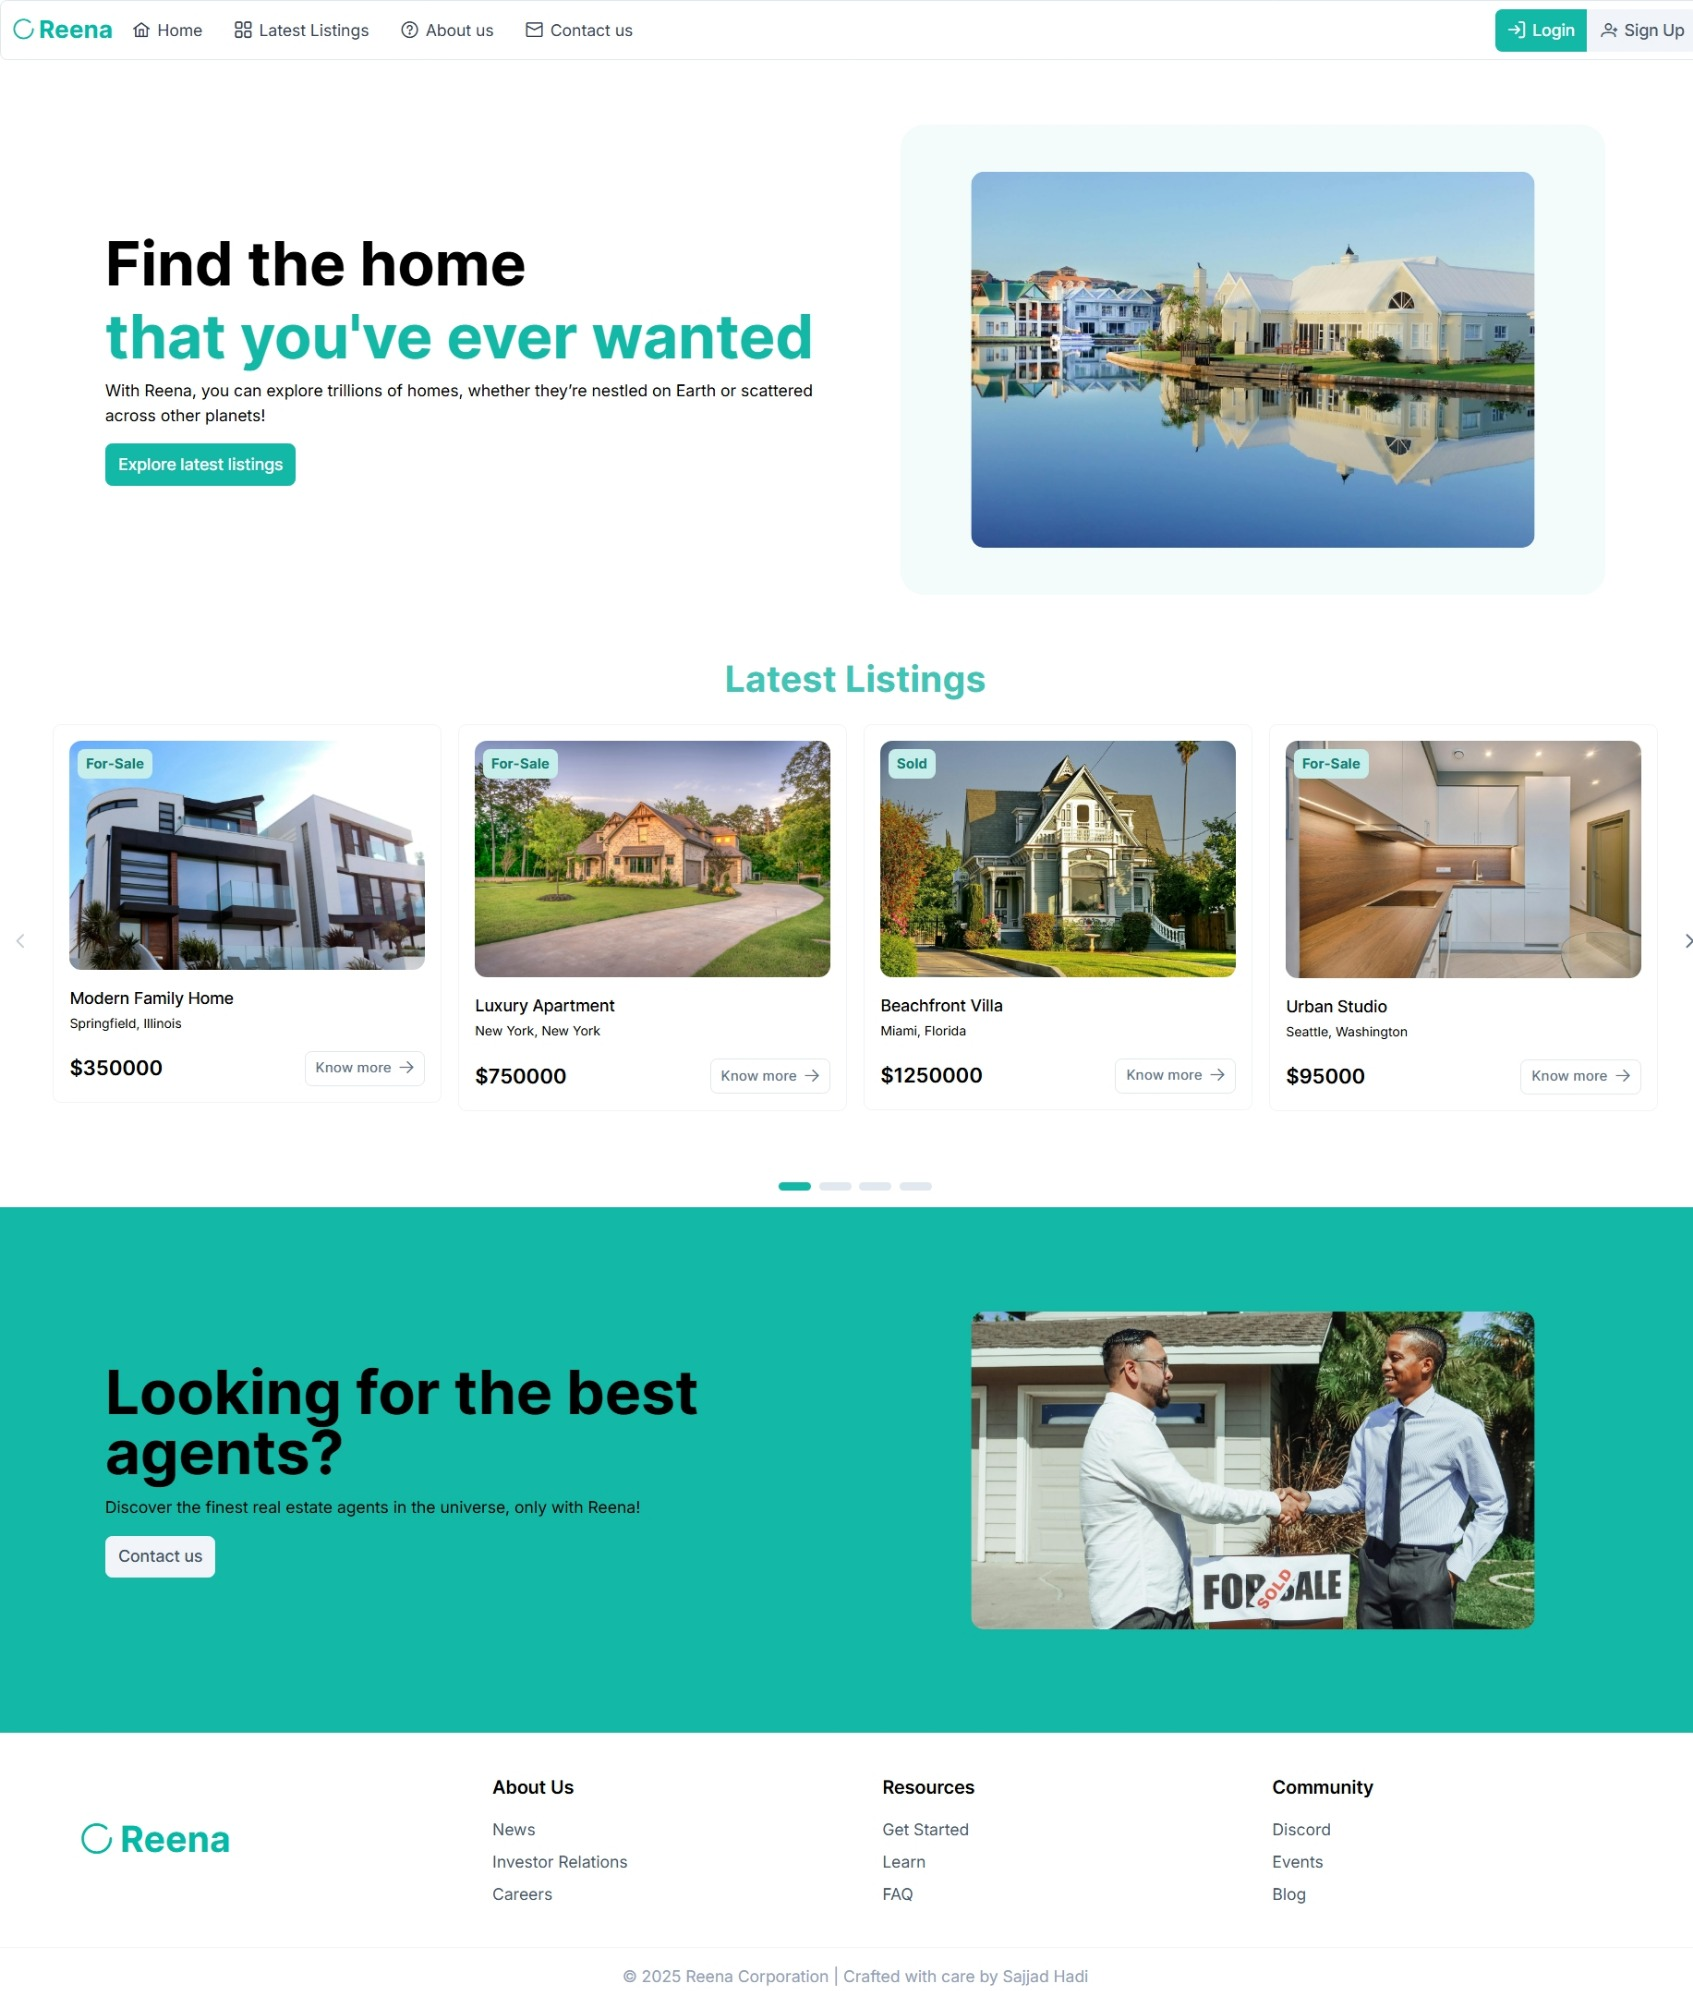
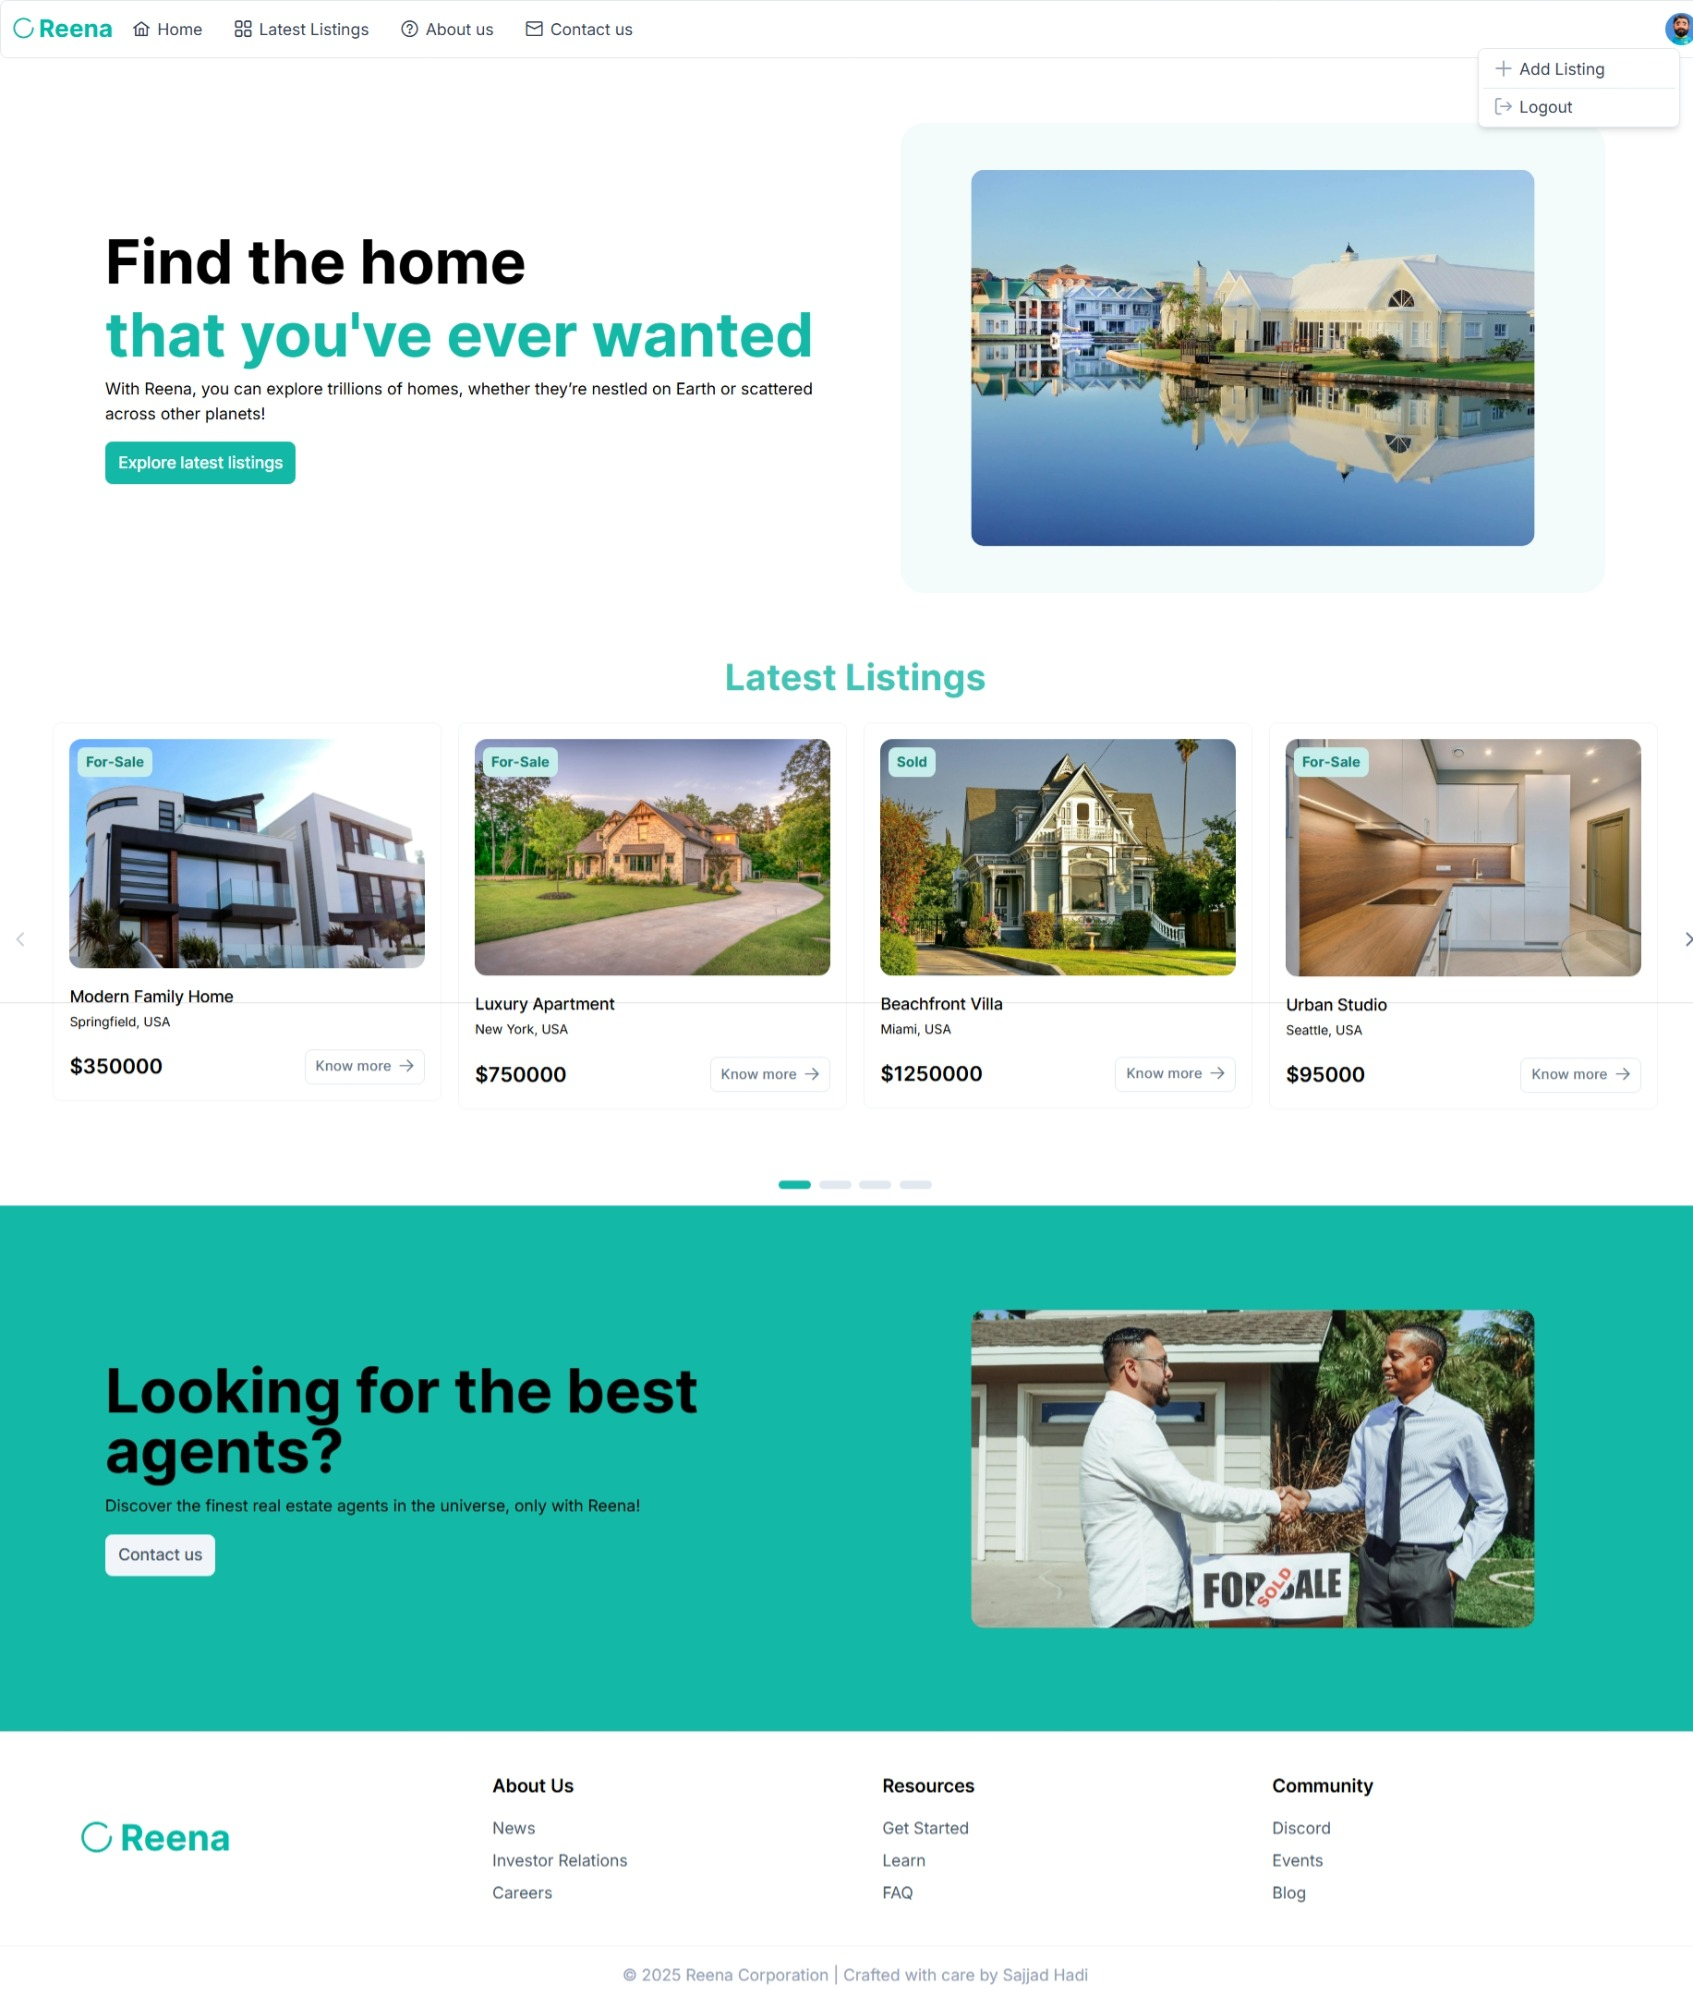
Improve user effect, service, and UI

diff --git a/src/app/store/user/user.effects.ts b/src/app/store/user/user.effects.ts
@@ -2,59 +2,119 @@ import { inject, Injectable } from '@angular/core';
 import { Actions, createEffect, ofType } from '@ngrx/effects';
 import { UserService } from '../../services/user.service';
 import { UserActions } from './user.actions';
-import { mergeMap } from 'rxjs';
+import { mergeMap, map, catchError, tap } from 'rxjs/operators';
+import { from, of } from 'rxjs';
+import { Router } from '@angular/router';
+import { MessageService } from 'primeng/api';
 import { User } from '../../interfaces/user';
 
 @Injectable()
 export class UserEffects {
   private actions$ = inject(Actions);
   private userService = inject(UserService);
+  private router = inject(Router);
+  private messageService = inject(MessageService);
 
+  // Get the current user
   getUser$ = createEffect(() =>
     this.actions$.pipe(
       ofType(UserActions.getUser),
       mergeMap(() =>
-        this.userService.getUser().then(
-          (user: User) => UserActions.getUserSuccess({ user }),
-          (error) => UserActions.getUserFailure({ error: error.message })
+        from(this.userService.getUser()).pipe(
+          map((user: User) => UserActions.getUserSuccess({ user })),
+          catchError((error) => of(UserActions.getUserFailure({ error: error.message })))
         )
       )
     )
   );
 
+  // Sign up a new user
   signUp$ = createEffect(() =>
     this.actions$.pipe(
       ofType(UserActions.signUp),
       mergeMap(({ user }) =>
-        this.userService.signup(user).then(
-          (user: User) => UserActions.signUpSuccess({ user }),
-          (error) => UserActions.signUpFailure({ error: error.message })
+        from(this.userService.signup(user)).pipe(
+          map((user: User) => UserActions.signUpSuccess({ user })),
+          catchError((error) => of(UserActions.signUpFailure({ error: error.message })))
         )
       )
     )
   );
 
+  // Create a session (login)
   createSession$ = createEffect(() =>
     this.actions$.pipe(
       ofType(UserActions.createSession),
       mergeMap(({ data }) =>
-        this.userService.createSession(data).then(
-          (user: User) => UserActions.createSessionSuccess({ user }),
-          (error) => UserActions.createSessionFailure({ error: error.message })
+        from(this.userService.createSession(data)).pipe(
+          map((user: User) => UserActions.createSessionSuccess({ user })),
+          catchError((error) => of(UserActions.createSessionFailure({ error: error.message })))
         )
       )
     )
   );
 
+  // Logout the user
   logout$ = createEffect(() =>
     this.actions$.pipe(
       ofType(UserActions.logout),
       mergeMap(() =>
-        this.userService.logout().then(
-          () => UserActions.logoutSuccess(),
-          (error) => UserActions.logoutFailure({ error: error.message })
+        from(this.userService.logout()).pipe(
+          map(() => UserActions.logoutSuccess()),
+          catchError((error) => of(UserActions.logoutFailure({ error: error.message })))
         )
       )
     )
+  );
+
+  // Navigate to dashboard after successful sign-up
+  signUpSuccess$ = createEffect(
+    () =>
+      this.actions$.pipe(
+        ofType(UserActions.signUpSuccess),
+        tap(() => this.router.navigate(['/user-dashboard']))
+      ),
+    { dispatch: false }
+  );
+
+  // Navigate to dashboard after successful login
+  createSessionSuccess$ = createEffect(
+    () =>
+      this.actions$.pipe(
+        ofType(UserActions.createSessionSuccess),
+        tap(() => this.router.navigate(['/user-dashboard']))
+      ),
+    { dispatch: false }
+  );
+
+  // Navigate to login page after successful logout
+  logoutSuccess$ = createEffect(
+    () =>
+      this.actions$.pipe(
+        ofType(UserActions.logoutSuccess),
+        tap(() => this.router.navigate(['/login']))
+      ),
+    { dispatch: false }
+  );
+
+  // Display toast notifications for errors
+  handleErrors$ = createEffect(
+    () =>
+      this.actions$.pipe(
+        ofType(
+          UserActions.getUserFailure,
+          UserActions.signUpFailure,
+          UserActions.createSessionFailure,
+          UserActions.logoutFailure
+        ),
+        tap((action) =>
+          this.messageService.add({
+            severity: 'error',
+            summary: 'Error',
+            detail: action.error,
+          })
+        )
+      ),
+    { dispatch: false }
   );
 }

diff --git a/src/app/services/user.service.ts b/src/app/services/user.service.ts
@@ -4,7 +4,7 @@ import { account, databases } from '../../lib/appwrite';
 import { Login, SignUp } from '../interfaces/form';
 
 @Injectable({
-  providedIn: 'root'
+  providedIn: 'root',
 })
 export class UserService {
   private account: Account;
@@ -21,14 +21,9 @@ export class UserService {
 
   async signup(user: SignUp): Promise<Models.User<Models.Preferences>> {
     try {
-      const newUser = await this.account.create(
-        ID.unique(),
-        user.email,
-        user.password,
-        user.fullName
-      );
-      await this.account.createSession(user.email, user.password);
-      return newUser;
+      await this.account.create(ID.unique(), user.email, user.password, user.fullName);
+      await this.account.createEmailPasswordSession(user.email, user.password);
+      return await this.account.get();
     } catch (error: any) {
       if (error.code === 409) {
         throw new Error('A user with this email already exists.');

diff --git a/src/app/app.routes.ts b/src/app/app.routes.ts
@@ -6,7 +6,6 @@ import { ListingsComponent } from './pages/listings/listings.component';
 import { LoginComponent } from './pages/login/login.component';
 import { SignUpComponent } from './pages/sign-up/sign-up.component';
 import { ListingComponent } from './pages/listing/listing.component';
-import { UserDashboardComponent } from './pages/user-dashboard/user-dashboard.component';
 import { UserAddListingComponent } from './pages/user-dashboard/user-add-listing/user-add-listing.component';
 import { authGuard } from './gaurds/auth.guard';
 
@@ -51,12 +50,6 @@ export const routes: Routes = [
   {
     path: 'user-dashboard',
     children: [
-      {
-        path: '',
-        component: UserDashboardComponent,
-        canActivate: [authGuard],
-        data: { authMode: 'authenticated' },
-      },
       {
         path: 'add-listing',
         component: UserAddListingComponent,

diff --git a/src/app/components/navbar/navbar.component.html b/src/app/components/navbar/navbar.component.html
@@ -16,8 +16,7 @@
         @if (isLoggedIn) {
           <p-menu #userMenu [model]="userMenuItems" [popup]="true"></p-menu>
           <p-avatar
-            routerLink="/user-dashboard"
-            image="https://primefaces.org/cdn/primeng/images/demo/avatar/amyelsner.png"
+            image="/assets/images/avatar.jpg"
             shape="circle"
             class="cursor-pointer"
             (mouseenter)="userMenu.toggle($event)"

diff --git a/src/app/app.config.ts b/src/app/app.config.ts
@@ -11,9 +11,11 @@ import { provideEffects } from '@ngrx/effects';
 import { effects, reducers } from './store';
 import { provideStoreDevtools } from '@ngrx/store-devtools';
 import { initializeApp } from './app.initializer';
+import {MessageService} from 'primeng/api'
 
 export const appConfig: ApplicationConfig = {
   providers: [
+    MessageService,
     provideAnimationsAsync(),
     providePrimeNG({
       theme: {

diff --git a/src/app/components/navbar/navbar.component.ts b/src/app/components/navbar/navbar.component.ts
@@ -59,13 +59,8 @@ export class NavbarComponent {
 
     this.userMenuItems = [
       {
-        label: 'Profile',
-        icon: 'pi pi-user',
-        command: () => this.router.navigate(['/user-dashboard']),
-      },
-      {
         label: 'Add Listing',
-        icon: 'pi pi-cog',
+        icon: 'pi pi-plus',
         command: () => this.router.navigate(['/user-dashboard/add-listing']),
       },
       {

diff --git a/src/app/app.component.ts b/src/app/app.component.ts
@@ -1,12 +1,14 @@
 import { Component } from '@angular/core';
 import { NavbarComponent } from './components/navbar/navbar.component';
 import { RouterOutlet } from '@angular/router';
+import { Toast } from 'primeng/toast';
 
 @Component({
   selector: 'app-root',
   imports: [
     NavbarComponent,
-    RouterOutlet
+    RouterOutlet,
+    Toast
   ],
   templateUrl: './app.component.html',
 })

diff --git a/src/app/app.component.html b/src/app/app.component.html
@@ -1,3 +1,5 @@
+<p-toast></p-toast>
+
 <app-navbar/>
 
 <router-outlet></router-outlet>
